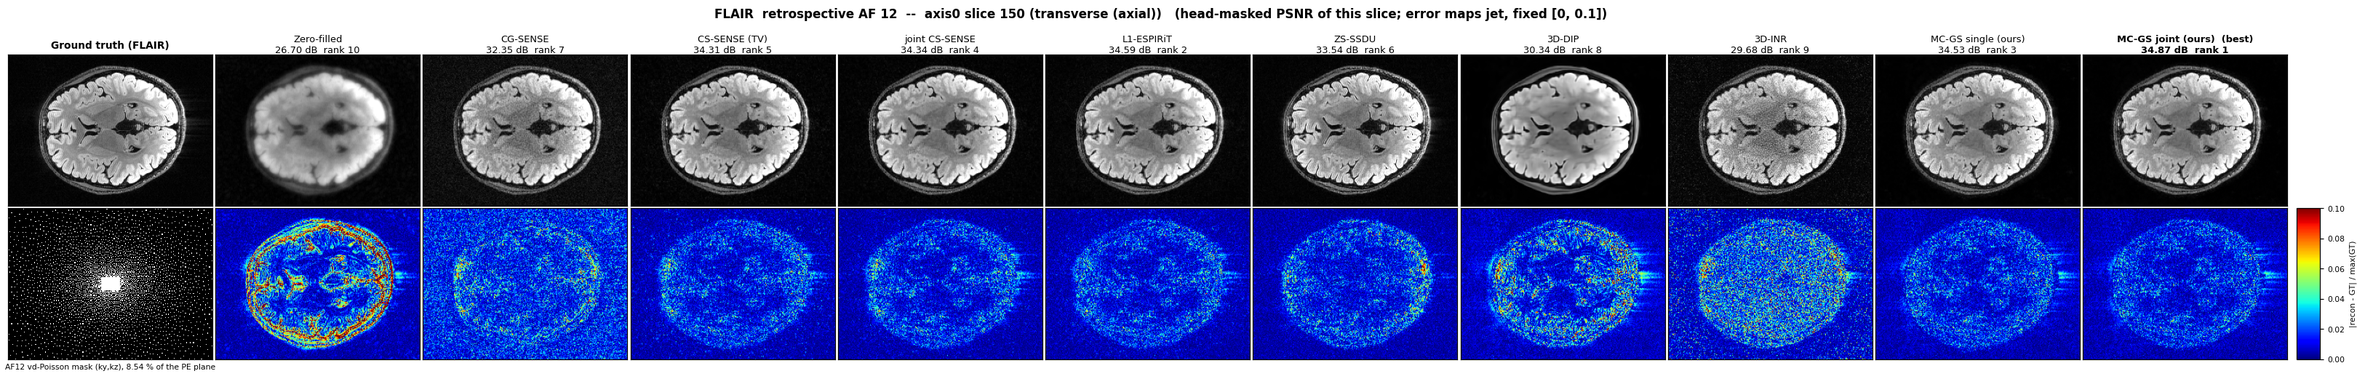
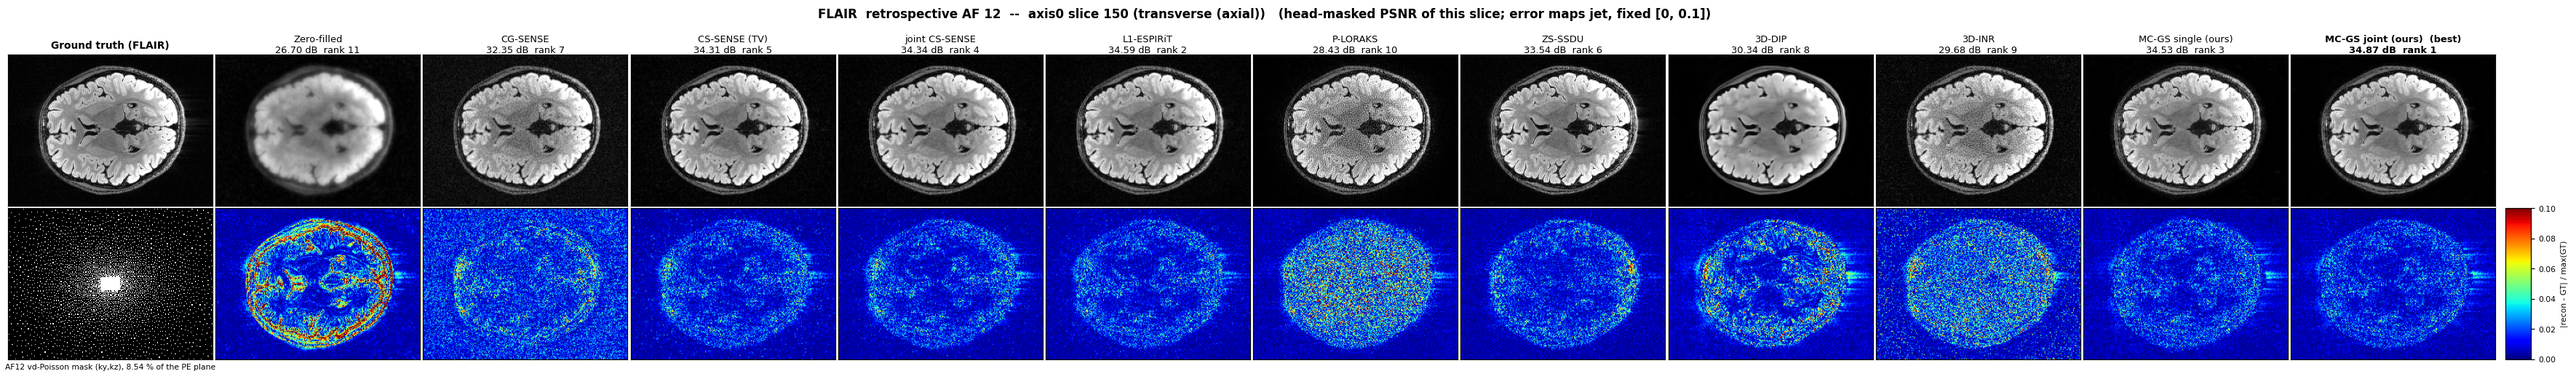
hyw T1+FLAIR: P-LORAKS FLAIR in the tables, sweep and panels; per-slice counts and P-LORAKS notes updated

diff --git a/t1flair_af12_retro/README.md b/t1flair_af12_retro/README.md
@@ -56,6 +56,7 @@ this pair than on T1+T2.
 | MC-GS single (old cold start) | 35.176 | 0.8448 | 31.755 | 0.8814 |  |
 | 3D-INR | 33.919 | 0.7932 | 29.939 | 0.8070 | 58 min |
 | 3D-DIP | 34.288 | 0.7924 | 29.397 | 0.8048 | 52 min |
+| P-LORAKS | 33.701 | 0.8355 | 29.147 | 0.7750 |  |
 | ZF | 31.677 | 0.8503 | 26.738 | 0.6882 | 2 min |
 
 The T1 table is in `logs/summary.tsv` and matches the T1+T2 topic except for the joint rows, which
@@ -155,8 +156,7 @@ converged TV, joint TV and L1-ESPIRiT columns and show those ranks as they are.
 P-LORAKS (LORAKS v2 toolbox, per-readout-slice, S-matrix, R = 2) is the fourth arm of this
 revisit; its rank (40) was selected on a six-slice subset of hyw T1 (`../T1T2_AF12_retro/logs/ploraks/ranksweep_R2.log`).
 The T1 row here is the hyw T1 full run of the T1+T2 topic (the same acquisition; 6.7 h). The FLAIR run (rank 40,
-R = 2, 48 MATLAB workers) started 2026-09-11 00:38 and takes 7–8 h; its row enters `logs/summary.tsv` through
-`scripts/summarize.py` when it lands.
+R = 2, 48 MATLAB workers) started 2026-09-11 00:38 and took 7.4 h; both rows are in the tables.
 Scripts: `recon_classical.py --suffix` (sweeps), `recon_joint_cssense.py`, `recon_l1espirit.py`,
 `ploraks_export.py` / `run_ploraks.m` / `run_ploraks_ranks.m` / `ploraks_import.py`; sweep logs
 in `logs/sweeps/`, per-run json in `logs/`.
@@ -201,7 +201,7 @@ cd $F && CONFIG=configs/t1flair_af12_hyw.yaml SAVE_VOLUMES=1 ./autoresearch_t1t2
   the flattest fifth of the head, in the darkest decile (suppressed CSF), where v3's local mean fluctuates. The
   wavelet strength does not reach that part; it acts on local correlation. FLAIR-channel strengths 0.08 and 0.12
   are being run on this topic (Round 17), and a second seed for a two-seed average (Round 18).
-- P-LORAKS: the T1 row is the T1+T2 topic's run (same acquisition); the FLAIR run is still in progress.
+- P-LORAKS: the T1 row is the T1+T2 topic's run (same acquisition); the FLAIR run has finished and both rows are in the tables.
 - Figures (compact panels, v3 as the proposed method): `figures/t1flair_af12_T1_best_axis0_147.png`,
   `figures/t1flair_af12_FLAIR_best_axis0_153.png` (v3's best transverse slices),
   `figures/t1flair_af12_{T1,FLAIR}_best3planes.png`.
@@ -242,7 +242,7 @@ Standing of v3.2 against every other method in this topic's table (single run, s
 - **Against v3**: T1 +0.044 dB / head SSIM +0.0013, FLAIR +0.202 dB / head SSIM +0.0047.
 - **Gate**: T1 sharpness 0.897 passes the pre-registered 0.874 floor.
 - **Two seeds averaged** (v3.2 ×2, Round 18c; its own table row, at twice the compute): head PSNR T1 35.935 (first), FLAIR 34.596 (first); head SSIM T1 0.9494 (first), FLAIR 0.9221 (third; ZS-SSDU 0.9235); head HFEN T1 0.0792 (first), FLAIR 0.1057 (first). Single-run v3.2 stays the headline arm.
-- **Per slice** (`scripts/find_best_slice_v2.py`, full-brain slices, against every other arm; P-LORAKS not yet in on every channel): T1 first on 47/47, 86/88, 93/93 transverse / coronal / sagittal slices; FLAIR first on 61/61, 91/91, 94/94 transverse / coronal / sagittal slices.
+- **Per slice** (`scripts/find_best_slice_v2.py`, full-brain slices, against every other arm; P-LORAKS included): T1 first on 47/47, 86/88, 93/93 transverse / coronal / sagittal slices; FLAIR first on 61/61, 91/91, 94/94 transverse / coronal / sagittal slices.
 - Figures (compact panels, v3.2 as the proposed method): `figures/t1flair_af12_T1_best_axis0_150.png`, `figures/t1flair_af12_FLAIR_best_axis0_150.png`, `figures/t1flair_af12_{T1,FLAIR}_best3planes.png`.
 
 ## Regenerating
